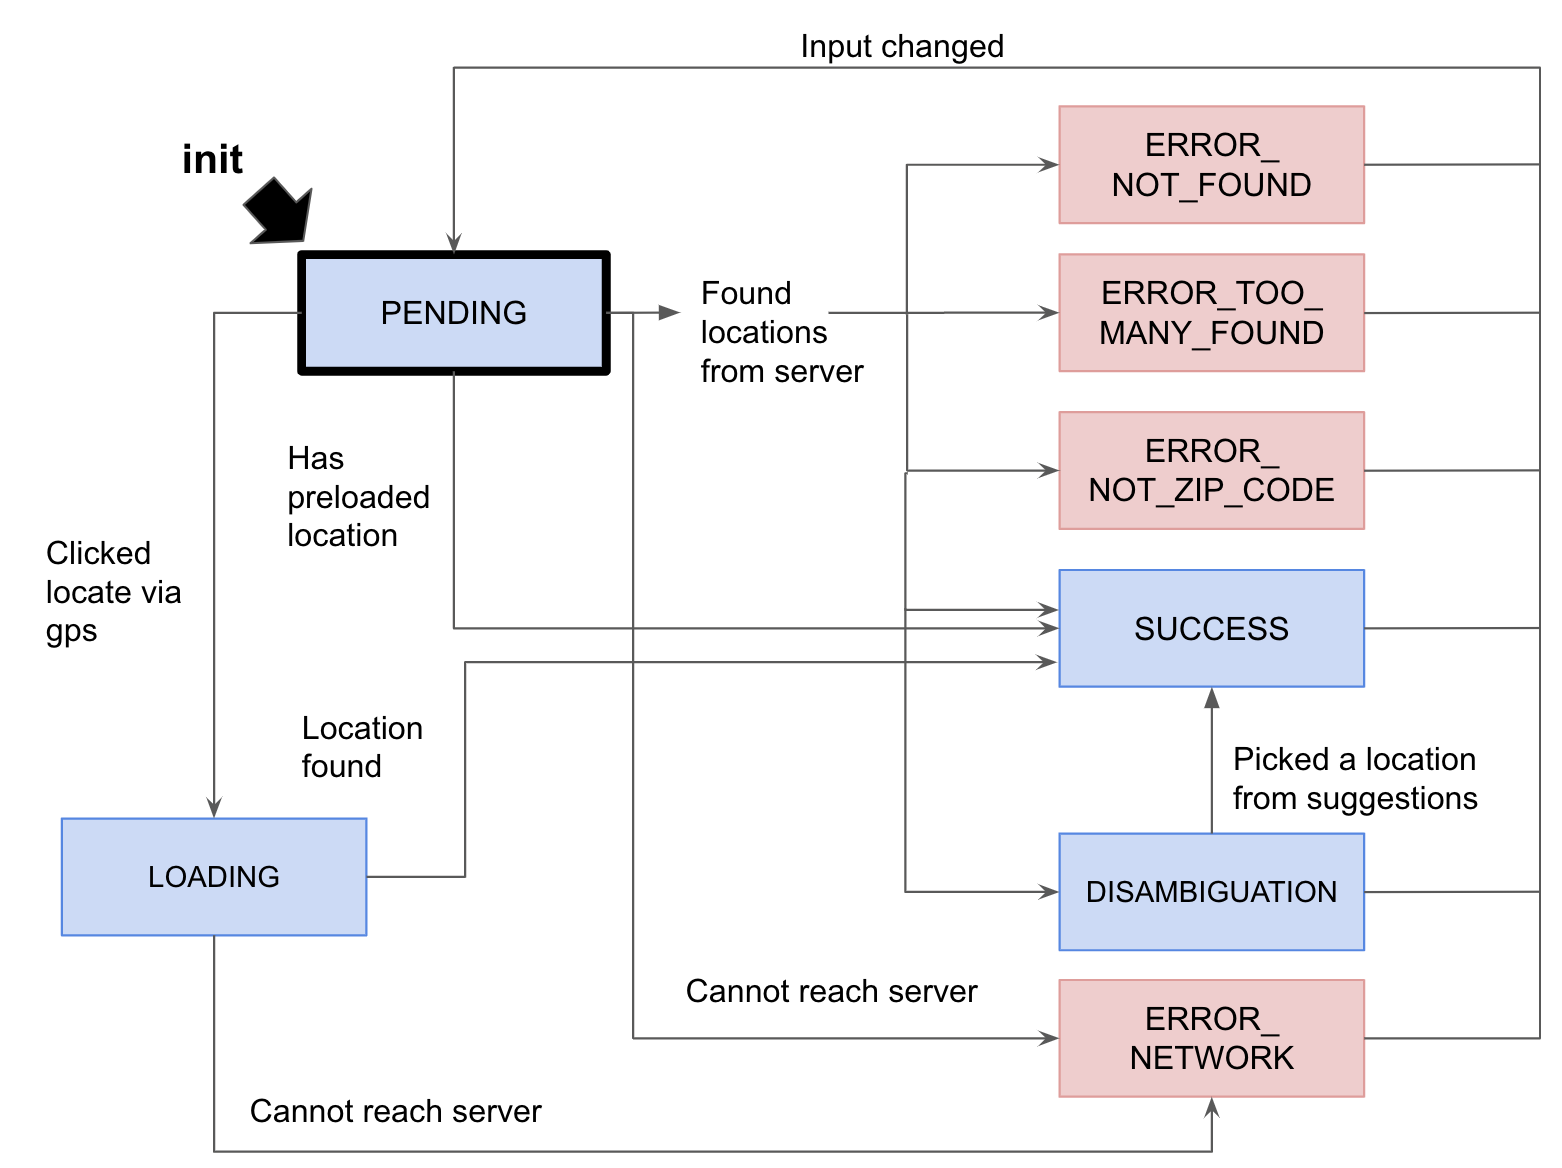
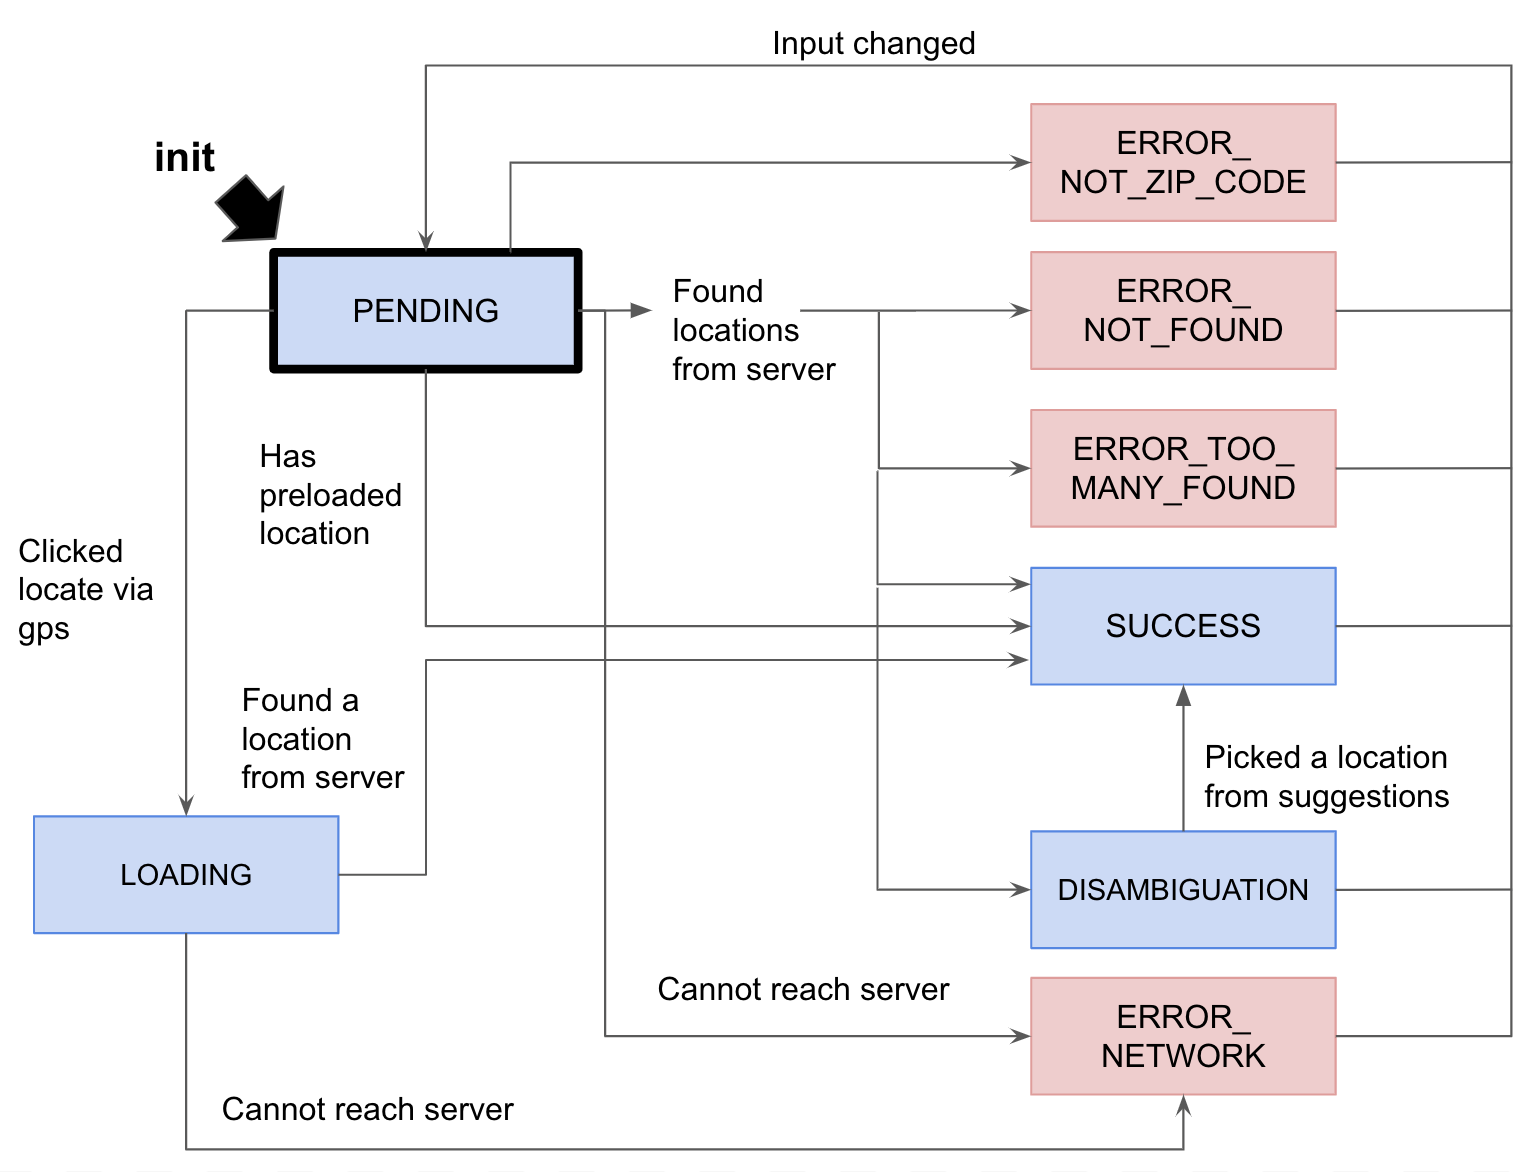
update fsm article

diff --git a/post/modeling-ui-state-using-a-finite-state-machine/index.html b/post/modeling-ui-state-using-a-finite-state-machine/index.html
@@ -350,7 +350,7 @@ This pattern allows us to build flexible, reusable, and testable systems. In thi
 <p>Formally,</p>
 
 <ul>
-<li><strong>States</strong> represent the status of the system and drives the output of the system. Light switches have two states: ON or OFF.  <a href="https://levelup.gitconnected.com/an-example-based-introduction-to-finite-state-machines-f908858e450f" target="_blank">Traffic lights contain three states</a>: RED, YELLOW, or GREEN. There are a finite number of states in a FSM and are finite. Every FSM has an initial state, which is the state the system is on when it first initiates.</li>
+<li><strong>States</strong> represent the modes of the system and drives the output of the system. Light switches have two states: ON or OFF.  <a href="https://levelup.gitconnected.com/an-example-based-introduction-to-finite-state-machines-f908858e450f" target="_blank">Traffic lights contain three states</a>: RED, YELLOW, or GREEN. There are a finite number of states in a FSM and are finite. Every FSM has an initial state, which is the state the system is on when it first initiates.</li>
 <li><strong>State transitions</strong> are rules for going from the current state to the next state based on the current state and the system inputs.</li>
 </ul>
 
@@ -463,6 +463,8 @@ function FriendStatus(props) {
 
 <p>If you see this in a Jira ticket, it might seem a bit overwhelming. There&rsquo;s a lot of logic that needs to be implemented. But having all the functional requirements up-front is actually a blessing in disguise - it enables us to think more holistically about the design of this component and pick an architecture that can effectively manage all of the complexity of this component.</p>
 
+<h3 id="enumeration-of-all-ui-states">Enumeration of All UI States</h3>
+
 <p>A nice thing about working on a cross-functional team with a designer is that you get all the mocks before you start implementations. The mocks can be used devise the architecture.</p>
 
 <p>Since this is an article about UI State modeling using FSM, you may have seen it coming. We are going to assign a UI State to each mock, which represents a snapshot of the component in action.</p>
@@ -512,6 +514,74 @@ function FriendStatus(props) {
   <div style="clear:both;"></div>
 
 
+<p>These images depict the output (the UI)  of the system in each state. Let&rsquo;s take a look at what the UI have in common in the different states. This will give us an idea on how to split up our <code>&lt;LocationSearch&gt;</code> component into sub-systems.</p>
+
+<ul>
+<li>In the SUCCESS state all the error states, a feedback message is displayed. The text color depends on the state.</li>
+<li>In the SUCCESS state, DISAMBIGUATION state, and all the error states, an icons is displayed besides the input (check mark vs exclamation mark).</li>
+<li>In all the states except LOADING, the country dropdown, query input, and geo-location search buttons are enabled and accepting input from the user.</li>
+</ul>
+
+<p>Based on these observations, we can start to delegating the rendering logic to different presentational components.</p>
+
+<table>
+<thead>
+<tr>
+<th>Component</th>
+<th>What it renders</th>
+<th>Value depends on</th>
+<th>Affected by uiStates</th>
+</tr>
+</thead>
+
+<tbody>
+<tr>
+<td>Countries</td>
+<td>- dropdown containing countries retrieved from the server</td>
+<td>- found location <br/>- user input</td>
+<td>LOADING</td>
+</tr>
+
+<tr>
+<td>QueryInput</td>
+<td>- input containing the country/city name or zip code <br/>- check mark or x mark icon for feedback</td>
+<td>- found location <br/>- user input</td>
+<td>- LOADING <br/>- SUCCESS <br/>- all error states</td>
+</tr>
+
+<tr>
+<td>Feedback</td>
+<td>- success message containing location name</td>
+<td>- found location <br/>- static messages mapped to error states</td>
+<td>- SUCCESS <br/>- all error states</td>
+</tr>
+
+<tr>
+<td>Suggestions</td>
+<td>- A dropdown containing matched locations</td>
+<td>dropdown containing matched locations from the server</td>
+<td>DISAMBIGUATION</td>
+</tr>
+
+<tr>
+<td>GpsSearchButton</td>
+<td>- A button to trigger location search by GPS</td>
+<td>N/A</td>
+<td>LOADING</td>
+</tr>
+</tbody>
+</table>
+
+<p>By delegating the implementation of the state-specific output to the these components, we are able to transform <code>&lt;LocationSearch&gt;</code> into a system of loosely-coupled components that are coordinated via the UI State. We are encapsulating the FSM in <code>&lt;LocationSearch&gt;</code>, in the sense that the parent component <code>&lt;LocationSearch&gt;</code> does not know anything about the implementation of the UI state in this component.</p>
+
+<p>Now we&rsquo;ve defined the states and the output of each state, we are going to specify the state transitions.</p>
+
+<h3 id="state-transitions">State Transitions</h3>
+
+<p>Similar to <code>&lt;FriendStatus&gt;</code>, we are going to instantiate <code>uiState</code> as a component state of <code>&lt;LocationSearch&gt;</code> and mutate <code>uiState</code> in a <code>useEffect</code>. The evaluation of the next <code>uiState</code> will be done in a helper function <code>getUiState</code>.</p>
+
+<p>Recall FSM can be represented as a directed graph and state transitions are the edges between the nodes. This is what our FSM should look like.</p>
+
 
  
   
@@ -555,6 +625,17 @@ function FriendStatus(props) {
 </div>
 
   <div style="clear:both;"></div>
+
+
+<p>The PENDING state is the initial state when the <code>&lt;LocationSearch&gt;</code> first mounts. As the component can mount with a preloaded location, there&rsquo;s an arrow going directly from PENDING to the SUCCESS state. We can also reach the SUCCESS state by providing a country+query to the server or a gps location to the server.</p>
+
+<p>The ERROR_NOT_ZIP_CODE state is reached via client-side input validation and does not depend on the result of the server request. On the other hand, all the other error states would be reached only after making a request to the server.</p>
+
+<h2 id="summary">Summary</h2>
+
+<p>In this article, we learned what a FSM is and how to model a complex component as a system of loosely coupled sub-systems coordinated via the UI State.</p>
+
+<p>We&rsquo;ve seen some examples of how this is done using React primitives like <code>useState</code> and <code>useEffect</code>. There is a library called <a href="https://xstate.js.org/docs/about/concepts.html" target="_blank">xState</a> which provides a more opinionated framework for creating, interpreting, and executing finite state machines and statecharts.</p>
               
             </div>
           </div>
